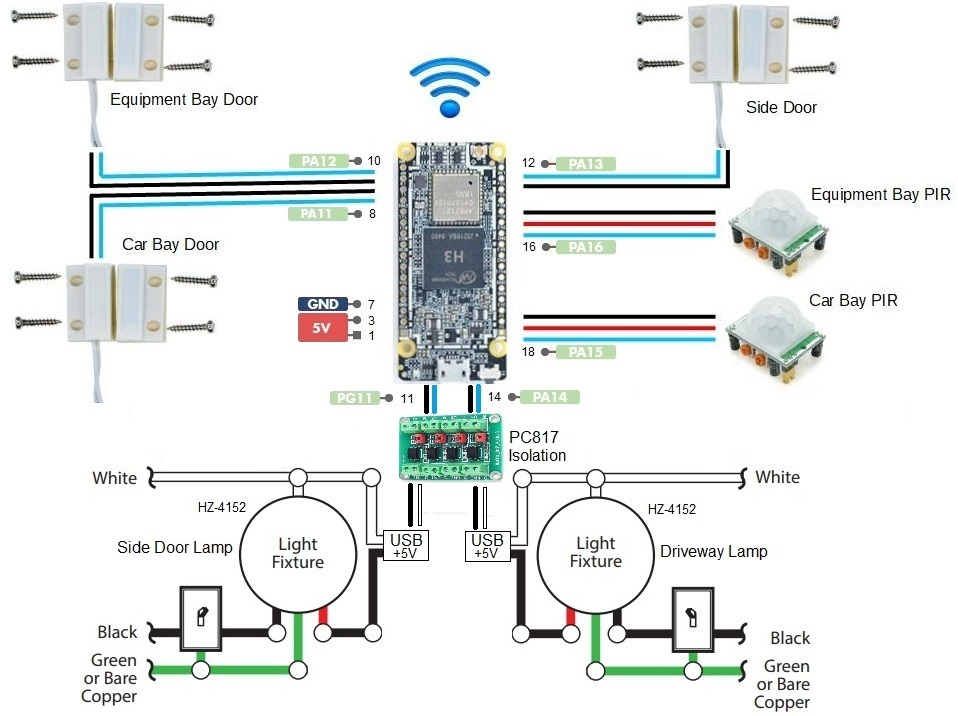
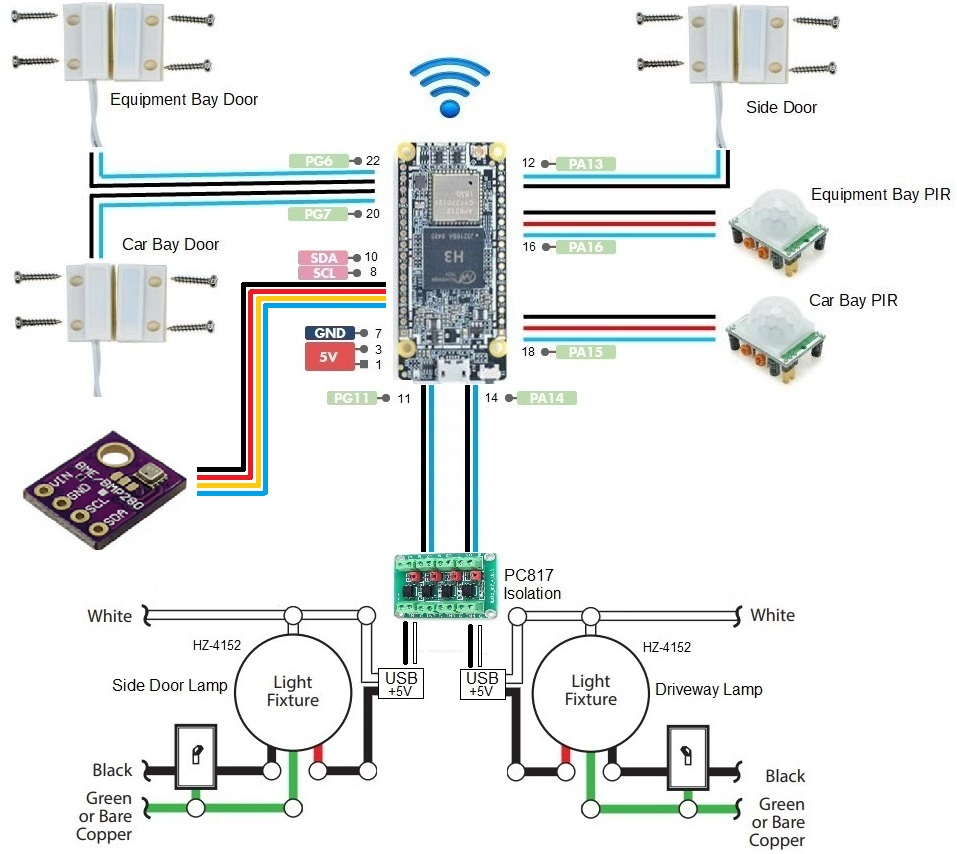
Add environmental monitoring.

diff --git a/monitor.py b/monitor.py
@@ -10,14 +10,17 @@ from RPi import GPIO
 from time import sleep, time
 from datetime import datetime
 
-import tornado.ioloop
-import tornado.web
-import pickle
-
 import os
 import sys
 import subprocess
 import signal
+
+import tornado.ioloop
+import tornado.web
+import pickle
+
+import smbus2
+import bme280
 
 import logging
 import logging.handlers
@@ -54,6 +57,12 @@ class Sensor:
     state_filename = "savestate.pickle"
     state_fullname = os.path.join( state_path, state_filename )
     state_extension = "."
+
+    i2c_port = 0
+    i2c_address = 0x77
+    i2c_bus = smbus2.SMBus( i2c_port )
+    bme280_calibration = bme280.load_calibration_params( i2c_bus, i2c_address )
+
     GPIO.setmode( GPIO.BOARD )
 
     def __init__( self, order, gpio, label, invert, state_names ):
@@ -142,14 +151,24 @@ class Sensor:
     @staticmethod
     def default_list( ):
         return [
-            Sensor( 1, Sensor.pin.PA11, 'Car Bay Door',       Sensor.activity.PASSTHRU, Sensor.door_states ),
+            Sensor( 1, Sensor.pin.PG7,  'Car Bay Door',       Sensor.activity.PASSTHRU, Sensor.door_states ),
             Sensor( 2, Sensor.pin.PA15, 'Car Bay',            Sensor.activity.PASSTHRU, Sensor.zone_states ),
             Sensor( 3, Sensor.pin.PA14, 'Driveway Lamp',      Sensor.activity.INVERT,   Sensor.zone_states ),
-            Sensor( 4, Sensor.pin.PA12, 'Equipment Bay Door', Sensor.activity.PASSTHRU, Sensor.door_states ),
+            Sensor( 4, Sensor.pin.PG6,  'Equipment Bay Door', Sensor.activity.PASSTHRU, Sensor.door_states ),
             Sensor( 5, Sensor.pin.PA16, 'Equipment Bay',      Sensor.activity.PASSTHRU, Sensor.zone_states ),
             Sensor( 6, Sensor.pin.PA13, 'Side Door',          Sensor.activity.PASSTHRU, Sensor.door_states ),
             Sensor( 7, Sensor.pin.PG11, 'Side Door Lamp',     Sensor.activity.INVERT,   Sensor.zone_states ),
         ]
+
+    @staticmethod
+    def add_or_update( target ):
+        for sensor in Sensor.managed_list:
+            if sensor.label == target.label:
+                sensor.order = target.order
+                sensor.gpio = target.gpio
+                return sensor
+        Sensor.managed_list.append( target )
+        return target
 
     @staticmethod
     def configure_probes( ):
@@ -157,8 +176,7 @@ class Sensor:
         try:
             Sensor.managed_list = Sensor.load_state( )
             for sensor in Sensor.default_list( ):
-                if sensor.label not in [ match.label for match in Sensor.managed_list ]:
-                    Sensor.managed_list.append( sensor )
+                Sensor.add_or_update( sensor )
         except:
             Sensor.managed_list = Sensor.default_list( )
         Sensor.all_gpio_setup( )
@@ -191,6 +209,10 @@ class Sensor:
         with open( Sensor.state_fullname, 'rb' ) as json_file:
             return pickle.load( json_file )
 
+    @staticmethod
+    def bme280_sample( ):
+        return bme280.sample( Sensor.i2c_bus, Sensor.i2c_address, Sensor.bme280_calibration )
+
 class MainHandler( tornado.web.RequestHandler ):
     @staticmethod
     def service_status( ):
@@ -203,6 +225,7 @@ class MainHandler( tornado.web.RequestHandler ):
     def make_app( ):
         handlers = [
             ( r'/(favicon\.ico)', tornado.web.StaticFileHandler, { "path" : "/var/lib/monitor" } ),
+            ( r'/(banner\.png)', tornado.web.StaticFileHandler, { "path" : "/var/lib/monitor" } ),
             ( r'^/$', MainHandler ),
         ]
         return tornado.web.Application( handlers )
@@ -210,15 +233,30 @@ class MainHandler( tornado.web.RequestHandler ):
     def get( self ):
         self.write( "<head>" )
         self.write( "<title>Sensors</title>" )
-        self.write( "<meta http-equiv=\"refresh\" content=\"5\" />" )
+        self.write( "<meta http-equiv=\"refresh\" content=\"15\" />" )
         self.write( "<link rel=\"Shortcut Icon\" href=\"/favicon.ico\" />" )
         self.write( "</head>" )
+ 
         self.write( "<table style=\"font-family: Verdana, Geneva, sans-serif\" border=\"1\">" )
-        self.write( "<thead><tr style=\"background: #6699ff\">" )
+        self.write( "<thead>" )
+
+        bme280_data = Sensor.bme280_sample( )
+        self.write( "<tr background=\"/banner.png\">" )
+        self.write( "<td colspan=\"3\" style=\"color: white\">" )
+        self.write( "Time: {0:%A %B %d, %I:%M:%S %p}</br>".format( bme280_data.timestamp ) )
+        self.write( "Temperature: {0:0.0f} °C</br>".format( bme280_data.temperature ) )
+        self.write( "Pressure: {0:0.0f} hPa</br>".format( bme280_data.pressure ) )
+        self.write( "Humidity: {0:0.0f} % rH".format( bme280_data.humidity ) )
+        self.write( "</td>" )
+        self.write( "</tr>" )
+
+        self.write( "<tr style=\"background: #6699ff\">" )
         self.write( "<td>Opened or Active Timestamp</td>" )
         self.write( "<td>State</td>" )
         self.write( "<td>Last Opened or Active</td>" )
-        self.write( "</tr></thead>" )
+        self.write( "</tr>" )
+        self.write( "</thead>" )
+
         self.write( "<tbody>" )
         for sensor in sorted( Sensor.managed_list, key = lambda probe: probe.order, reverse = False ):
             style = "background: red" if sensor.is_active( ) else "background: white"
@@ -249,7 +287,7 @@ try:
     logger.addHandler( handler )
 
     signal.signal( signal.SIGTERM, signal_handler )
-
+    
     Sensor.configure_probes( )
     if __name__ == "__main__":
         app = MainHandler.make_app( )

diff --git a/README.md b/README.md
@@ -1,37 +1,86 @@
 # GARAGE_SECURITY
-Monitor PIR sensors to detect motion and magnetic reed switches to detect open doors.
+Monitor PIR sensors to detect motion, magnetic reed switches to detect open doors, and BME280 for environment.
 
-![Deployment on NanoPI NEO Duo2](https://github.com/newfoundlandplucky/GARAGE_SECURITY/blob/master/documentation/Deployment.jpg?raw=true)
+![Deployment on NanoPI NEO Duo2](https://github.com/newfoundlandplucky/GARAGE_SECURITY/blob/master/documentation/Delpoyment.jpg?raw=true)
 
 **Tested using the following environment**
 * SBC: NanoPI NEO Core2 "stretch/sid"
 * Linux GarageSensors 4.14.111 #27 SMP Wed Apr 24 20:18:02 CST 2019 armv7l armv7l armv7l GNU/Linux
 
+```
+elvis@GarageSensors:~$ sudo pip3 list
+chardet (2.3.0)
+decorator (4.0.6)
+numpy (1.11.0)
+pip (8.1.1)
+python-apt (1.1.0b1+ubuntu0.16.4.9)
+requests (2.9.1)
+RPi.bme280 (0.2.3)
+RPi.GPIO (0.5.8)
+scipy (0.17.0)
+setuptools (20.7.0)
+six (1.10.0)
+smbus2 (0.3.0)
+ssh-import-id (5.5)
+tornado (6.0.4)
+urllib3 (1.13.1)
+wheel (0.29.0)
+```
+
 **Vendors and Forums**
-* https://linux-sunxi.org/Main_Page
-* Friendly Elec: https://www.friendlyarm.com/
-* SunXi H3 > NanoPi-Duo2 https://drive.google.com/drive/folders/1fwBNaVULDohrIG_dpLuIvMZ6rC0tGSqD
+* "Friendly Elec" https://www.friendlyarm.com/
+* "SUNXI" https://linux-sunxi.org/Main_Page
+* "NanoPi Duo2 firmware" https://drive.google.com/drive/folders/1fwBNaVULDohrIG_dpLuIvMZ6rC0tGSqD
+* "Bosch BME280 digital sensor module interface" https://pypi.org/project/RPi.bme280/
+* "Using I2C on NanoPi Duo with Python" http://www.friendlyarm.com/Forum/viewtopic.php?f=59&t=958&p=2883#p2883
+* "BMP280 and ESP8266" https://myesp8266.blogspot.com/2016/12/bmp280-and-esp8266.html
 
 ![NanoPi NEO Core2 Pinout](https://github.com/newfoundlandplucky/GARAGE_SECURITY/blob/master/documentation/NanoPi_Duo2.jpg?raw=true)
 
 **Sample Output**
 
 ```
-elvis@GarageSensors:~$ sudo make status
-● monitor.service - Security sensor monitoring service.
+elvis@GarageSensors:~/monitor$ sudo make status
+● monitor.service - security sensor monitoring service
    Loaded: loaded (/lib/systemd/system/monitor.service; enabled; vendor preset: enabled)
-   Active: active (running) since Thu 2016-02-11 12:17:52 EST; 38min ago
- Main PID: 1896 (python2)
+   Active: active (running) since Mon 2020-10-12 22:11:52 EDT; 11h ago
+ Main PID: 507 (python3)
    CGroup: /system.slice/monitor.service
-           └─1896 /usr/bin/python2 /home/pi/monitor.py
+           └─507 /usr/bin/python3 /usr/local/bin/monitor.py
 
-Feb 11 12:17:52 GarageSensors systemd[1]: Started Security sensor monitoring service..
-Feb 11 12:17:54 GarageSensors python2[1896]: CRITICAL:Security Monitor:Side Door is open
-Feb 11 12:17:54 GarageSensors python2[1896]: CRITICAL:Security Monitor:Car Bay is active
+Oct 13 08:23:43 GarageSensors python3[507]: INFO:Security Monitor:Equipment Bay is quiet
+Oct 13 08:26:21 GarageSensors python3[507]: INFO:Security Monitor:Driveway Lamp is quiet
+Oct 13 08:31:24 GarageSensors python3[507]: CRITICAL:Security Monitor:Side Door is open
+Oct 13 08:31:25 GarageSensors python3[507]: CRITICAL:Security Monitor:Equipment Bay is active
+Oct 13 08:31:31 GarageSensors python3[507]: INFO:Security Monitor:Side Door is closed
+Oct 13 08:31:35 GarageSensors python3[507]: INFO:Security Monitor:Equipment Bay is quiet
+Oct 13 08:37:55 GarageSensors python3[507]: CRITICAL:Security Monitor:Side Door is open
+Oct 13 08:37:58 GarageSensors python3[507]: CRITICAL:Security Monitor:Equipment Bay is active
+Oct 13 08:38:07 GarageSensors python3[507]: INFO:Security Monitor:Side Door is closed
+Oct 13 08:38:09 GarageSensors python3[507]: INFO:Security Monitor:Equipment Bay is quiet
+
+● checklan.service - check wlan0 connection to local server
+   Loaded: loaded (/lib/systemd/system/checklan.service; enabled; vendor preset: enabled)
+   Active: active (running) since Mon 2020-10-12 22:11:51 EDT; 11h ago
+ Main PID: 495 (checklan.sh)
+   CGroup: /system.slice/checklan.service
+           ├─  495 /bin/sh /usr/local/bin/checklan.sh
+           └─10927 sleep 600
+
+Oct 13 08:31:54 GarageSensors checklan.sh[495]: Tue Oct 13 08:31:54 EDT 2020 : wlan up.
+Oct 13 08:41:54 GarageSensors checklan.sh[495]: Tue Oct 13 08:41:54 EDT 2020 : wlan up.
+Oct 13 08:51:54 GarageSensors checklan.sh[495]: Tue Oct 13 08:51:54 EDT 2020 : wlan up.
+Oct 13 09:01:54 GarageSensors checklan.sh[495]: Tue Oct 13 09:01:54 EDT 2020 : wlan up.
+Oct 13 09:11:54 GarageSensors checklan.sh[495]: Tue Oct 13 09:11:54 EDT 2020 : wlan up.
+Oct 13 09:21:54 GarageSensors checklan.sh[495]: Tue Oct 13 09:21:54 EDT 2020 : wlan up.
+Oct 13 09:31:54 GarageSensors checklan.sh[495]: Tue Oct 13 09:31:54 EDT 2020 : wlan up.
+Oct 13 09:41:54 GarageSensors checklan.sh[495]: Tue Oct 13 09:41:54 EDT 2020 : wlan up.
+Oct 13 09:51:54 GarageSensors checklan.sh[495]: Tue Oct 13 09:51:54 EDT 2020 : wlan up.
+Oct 13 10:01:54 GarageSensors checklan.sh[495]: Tue Oct 13 10:01:54 EDT 2020 : wlan up.
 ```
 
 ![NanoPi NEO Core2 Pinout](https://github.com/newfoundlandplucky/GARAGE_SECURITY/blob/master/documentation/WebInterface.jpg?raw=true)
 
 **Benchtop Evaluation**
 
-![Benchtop Evaluation](https://github.com/newfoundlandplucky/GARAGE_SECURITY/blob/master/documentation/BenchTest.JPG?raw=true)
+![Benchtop Evaluation](https://github.com/newfoundlandplucky/GARAGE_SECURITY/blob/master/documentation/BenchTest.jpg?raw=true)
